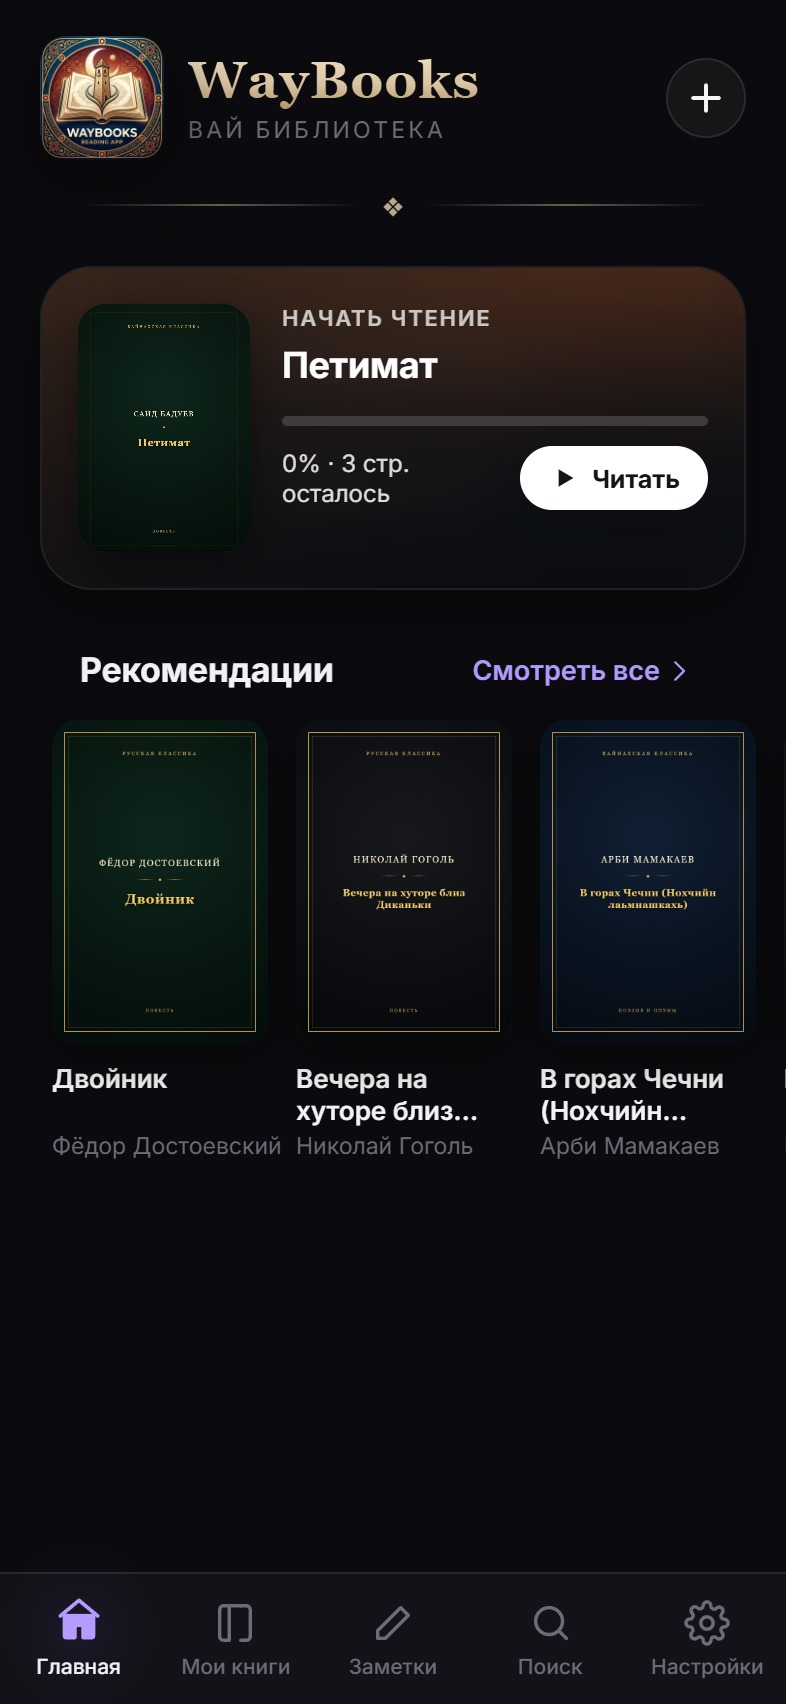
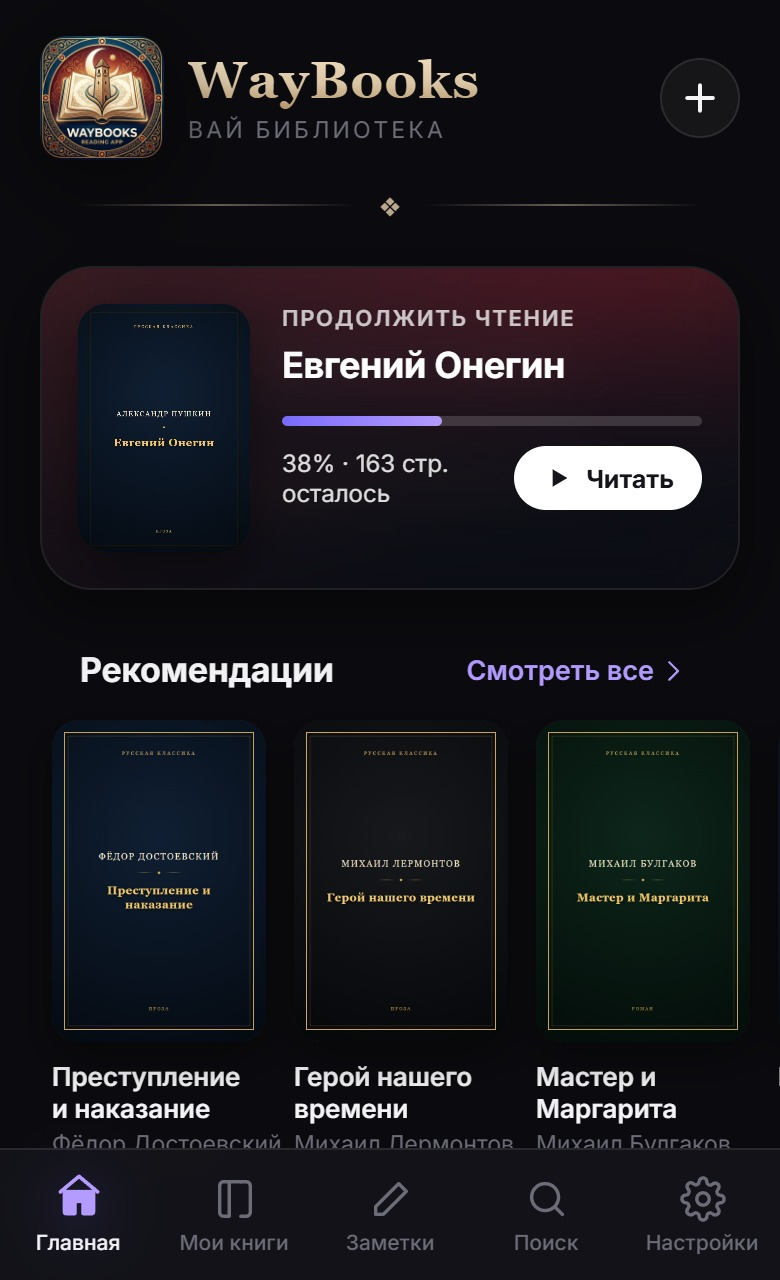
feat: compact android mockup proportions and russian classics covers in hero screenshot

diff --git a/index.html b/index.html
@@ -7,7 +7,7 @@
 <meta name="description" content="WayBooks — читалка, которая работает без интернета: 115 полных текстов встроено, свои обложки, EPUB, FB2, PDF и TXT, четыре темы и счётчик страниц. Скачать APK на Android." />
 <meta name="theme-color" content="#0b0b0f" />
 <link rel="icon" type="image/png" href="assets/logo.png" />
-<link rel="preload" as="image" href="assets/shots/home.jpg?v=1.5.2" />
+<link rel="preload" as="image" href="assets/shots/home.jpg?v=1.5.3" />
 <style>
 @font-face{font-family:'Inter';font-style:normal;font-weight:400;font-display:swap;src:url(assets/fonts/inter-cyr.woff2) format('woff2');unicode-range:U+0400-045F,U+0490-0491,U+04B0-04B1,U+2116}
 @font-face{font-family:'Inter';font-style:normal;font-weight:400;font-display:swap;src:url(assets/fonts/inter-lat.woff2) format('woff2');unicode-range:U+0000-00FF,U+0131,U+0152-0153,U+2013-2014,U+2191,U+2113,U+2122}
@@ -114,7 +114,7 @@ h1 em{font-style:normal;background:linear-gradient(180deg,#f2e0c3,#b3936a);-webk
 
 /* телефон-витрина (Android) */
 .phone{
-  position:relative;width:min(330px,86vw);margin:0 auto;padding:10px;border-radius:36px;
+  position:relative;width:min(300px,82vw);margin:0 auto;padding:10px;border-radius:36px;
   background:linear-gradient(160deg,rgba(255,255,255,.12),rgba(255,255,255,.03));
   border:1px solid var(--stroke-strong);box-shadow:var(--shadow-float),0 0 90px rgba(124,108,255,.16);
 }
@@ -261,7 +261,7 @@ footer .wordmark{font-size:17px}
     </div>
   </div>
   <figure class="phone">
-    <img src="assets/shots/home.jpg?v=1.5.2" width="306" height="664" alt="Главный экран WayBooks: рекомендации и классические книги" loading="eager" />
+    <img src="assets/shots/home.jpg?v=1.5.3" width="280" height="460" alt="Главный экран WayBooks: русская классика и рекомендации" loading="eager" />
   </figure>
 </section>
 
